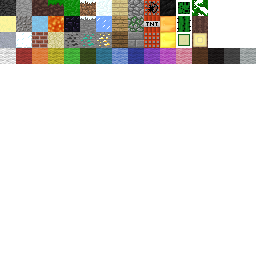
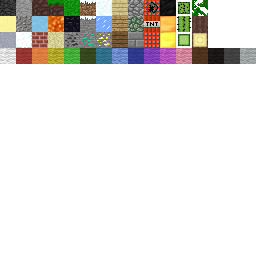
Cactus texture + camera tilting while walking

Changed region(s): [[0.6875, 0.0, 0.75, 0.1875]]

diff --git a/core/src/com/travall/game/Main.java b/core/src/com/travall/game/Main.java
@@ -8,9 +8,11 @@ import com.badlogic.gdx.Graphics;
 import com.badlogic.gdx.Input.Buttons;
 import com.badlogic.gdx.Input.Keys;
 import com.badlogic.gdx.assets.AssetManager;
+import com.badlogic.gdx.graphics.Color;
 import com.badlogic.gdx.graphics.GL20;
 import com.badlogic.gdx.graphics.PerspectiveCamera;
 import com.badlogic.gdx.graphics.Texture;
+import com.badlogic.gdx.graphics.g2d.BitmapFont;
 import com.badlogic.gdx.graphics.g2d.SpriteBatch;
 import com.badlogic.gdx.graphics.g3d.ModelBatch;
 import com.badlogic.gdx.graphics.g3d.shaders.DefaultShader;
@@ -32,6 +34,8 @@ import com.travall.game.renderer.vertices.VoxelTerrain;
 import com.travall.game.utils.BlockPos;
 import com.travall.game.world.World;
 
+import java.awt.*;
+
 public class Main extends ApplicationAdapter {
 	
 	PerspectiveCamera camera;
@@ -52,6 +56,10 @@ public class Main extends ApplicationAdapter {
 	SSAO ssao;
 	SpriteBatch spriteBatch;
 	Texture crosshair;
+
+	float increase = 0;
+
+	BitmapFont font;
 
 	@Override
 	public void create() {
@@ -98,6 +106,8 @@ public class Main extends ApplicationAdapter {
 		ssao.setEnable(false); // Enable or disable the SSAO.
 
 		spriteBatch = new SpriteBatch();
+		font = new BitmapFont();
+		font.setColor(Color.WHITE);
 
 		Gdx.input.setCursorCatched(true);
 
@@ -112,6 +122,7 @@ public class Main extends ApplicationAdapter {
 	public void render() {
 		update();
 		camera.update(); // Update the camera projection
+		cameraController.update(player.isWalking);
 
 		ssao.begin();
 		Gdx.gl.glClearColor(0.2f, 0.2f, 0.2f, 1);
@@ -135,6 +146,7 @@ public class Main extends ApplicationAdapter {
 //        spriteBatch.setShader(ssaoShaderProgram);
 		spriteBatch.begin();
 		spriteBatch.draw(crosshair, (Gdx.graphics.getWidth() / 2) - 8, (Gdx.graphics.getHeight() / 2) - 8);
+		font.draw(spriteBatch, "Velocity x: " + player.getVelocity().x, 20, Gdx.graphics.getHeight() - 20);
 		spriteBatch.end();
 		spriteBatch.setShader(null);
 
@@ -143,6 +155,8 @@ public class Main extends ApplicationAdapter {
 	}
 
 	private void update() {
+
+		increase+= 0.15f;
 
 		player.update(world, camera, cameraController);
 

diff --git a/core/src/com/travall/game/entities/Player.java b/core/src/com/travall/game/entities/Player.java
@@ -23,6 +23,7 @@ public class Player {
 
 	public boolean onGround;
 	public boolean isFlying = false;
+	public boolean isWalking = false;
 
 	public Player(Vector3 position) {
 		setPosition(position);
@@ -48,15 +49,25 @@ public class Player {
 		return position;
 	}
 
+	public Vector3 getVelocity() {
+		return velocity;
+	}
+
 	public void update(World world, Camera camera, FirstPersonCameraController cameraController) {
 		process(camera, cameraController);
 		velocity.add(acceleration);
 		move(world, this.velocity.x, this.velocity.y, this.velocity.z);
 		acceleration.setZero();
 
+
+
 		velocity.x = MathUtils.lerp(this.velocity.x, 0, 0.2f);
 		velocity.y = isFlying ? MathUtils.lerp(this.velocity.y, 0, 0.1f) : MathUtils.lerp(this.velocity.y, 0, 0.01f);
 		velocity.z = MathUtils.lerp(this.velocity.z, 0, 0.2f);
+
+		if(velocity.dst(Vector3.Zero) < 0.001) velocity.set(Vector3.Zero);
+
+		this.isWalking = (velocity.x != 0 || velocity.z != 0);
 	}
 
 	final Vector3 add = new Vector3(), direction = new Vector3(), noam = new Vector3(), temp = new Vector3();

diff --git a/core/src/com/travall/game/handles/FirstPersonCameraController.java b/core/src/com/travall/game/handles/FirstPersonCameraController.java
@@ -28,8 +28,16 @@ public class FirstPersonCameraController extends InputAdapter {
 
     float mouseSensitivity = 0.5f;
 
+    float increase;
+
     public FirstPersonCameraController (Camera camera) {
         this.camera = camera;
+    }
+
+    public void update(boolean walking) {
+        if(walking) increase += 0.15f;
+        else increase = 0;
+        camera.rotate(camera.direction, 1);
     }
 
     @Override
@@ -64,13 +72,11 @@ public class FirstPersonCameraController extends InputAdapter {
         //reset quat and camera angles, rotate and apply to camera.
         quat.idt();
 
-        quat.setEulerAngles(camRotateAngle, camTiltAngle, 0);
+        quat.setEulerAngles(camRotateAngle, camTiltAngle, 1);
 
         camera.direction.set(0, 0, 1);
         camera.up.set(0,1,0);
         camera.rotate(quat);
-
-
 
 
         return true;
